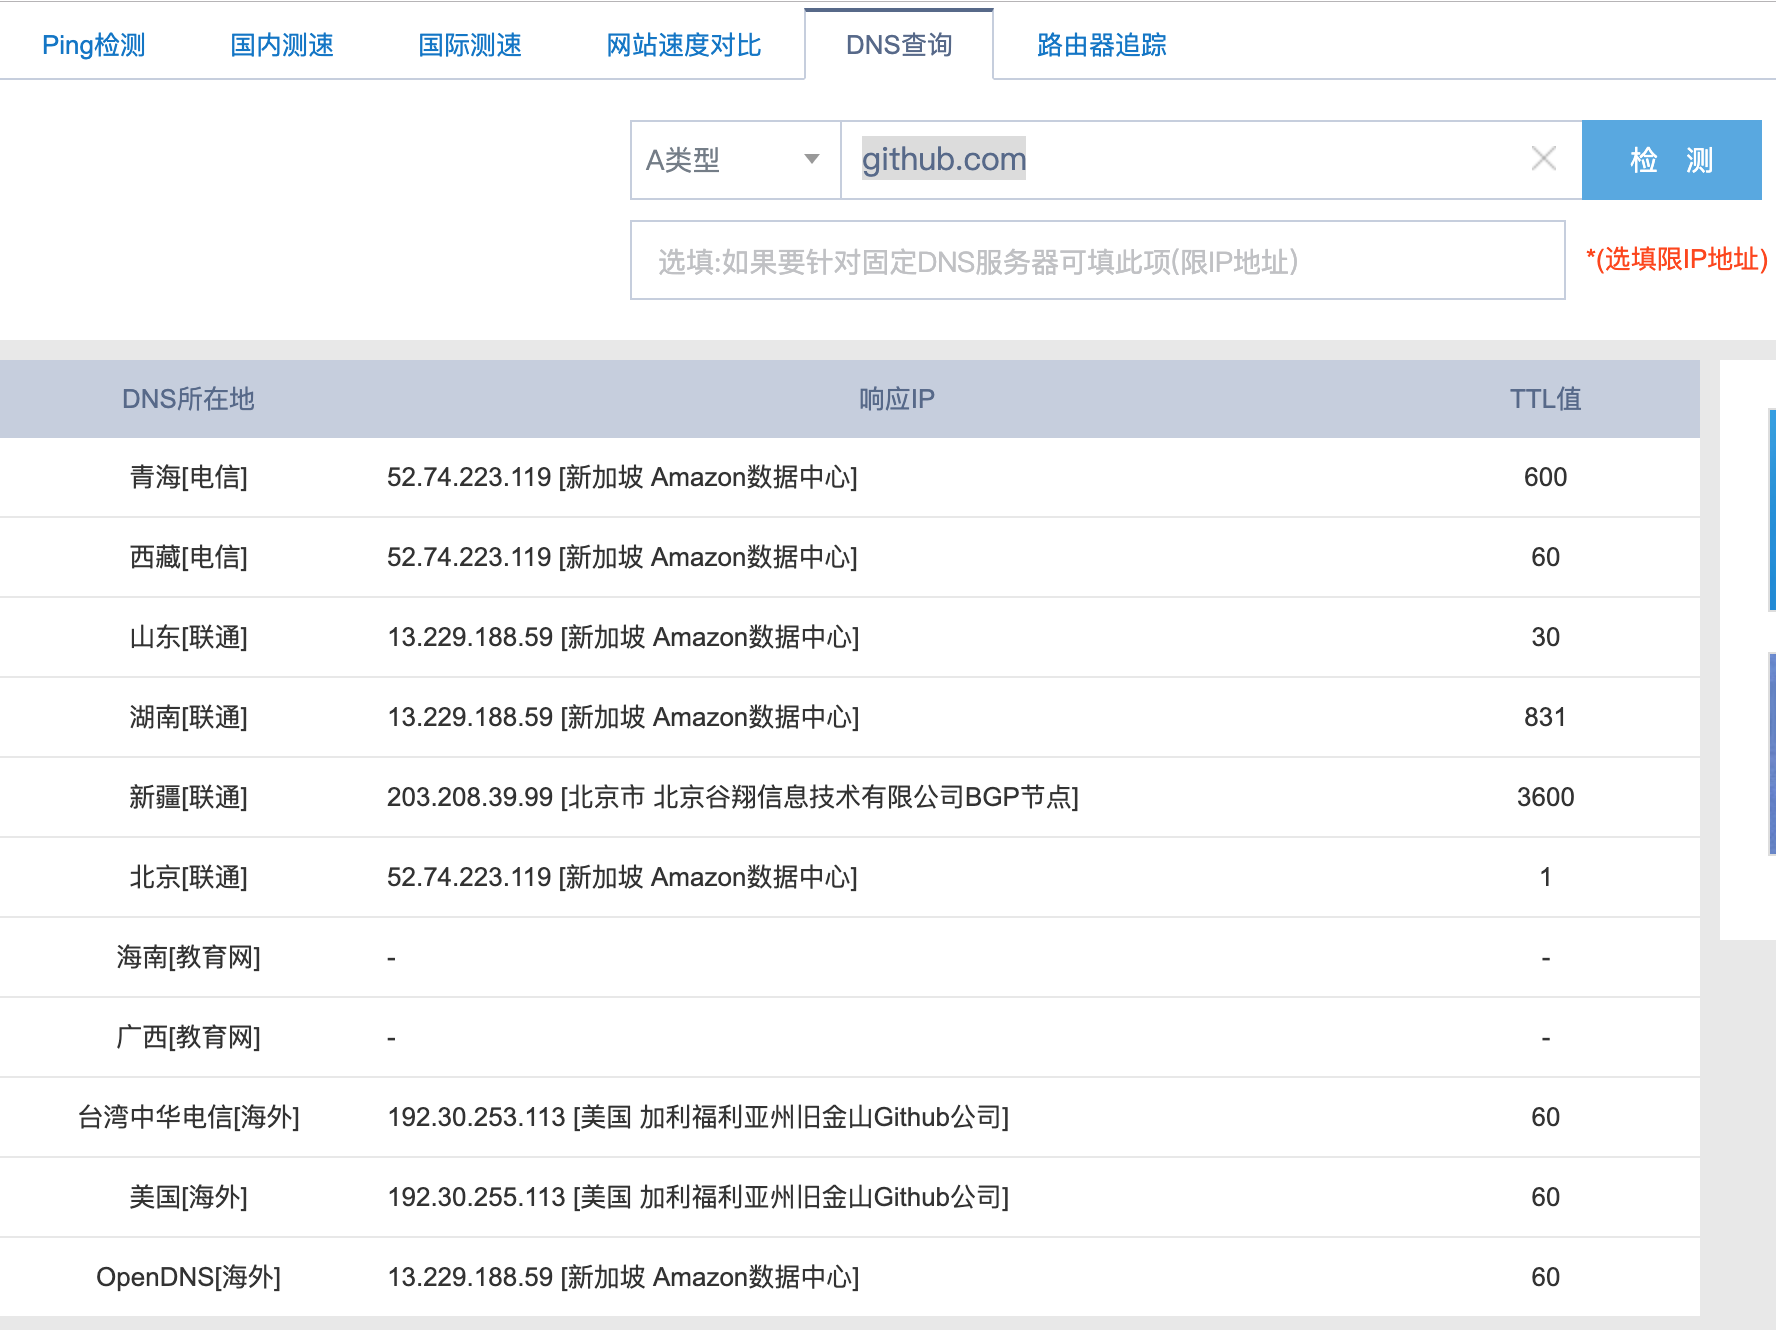
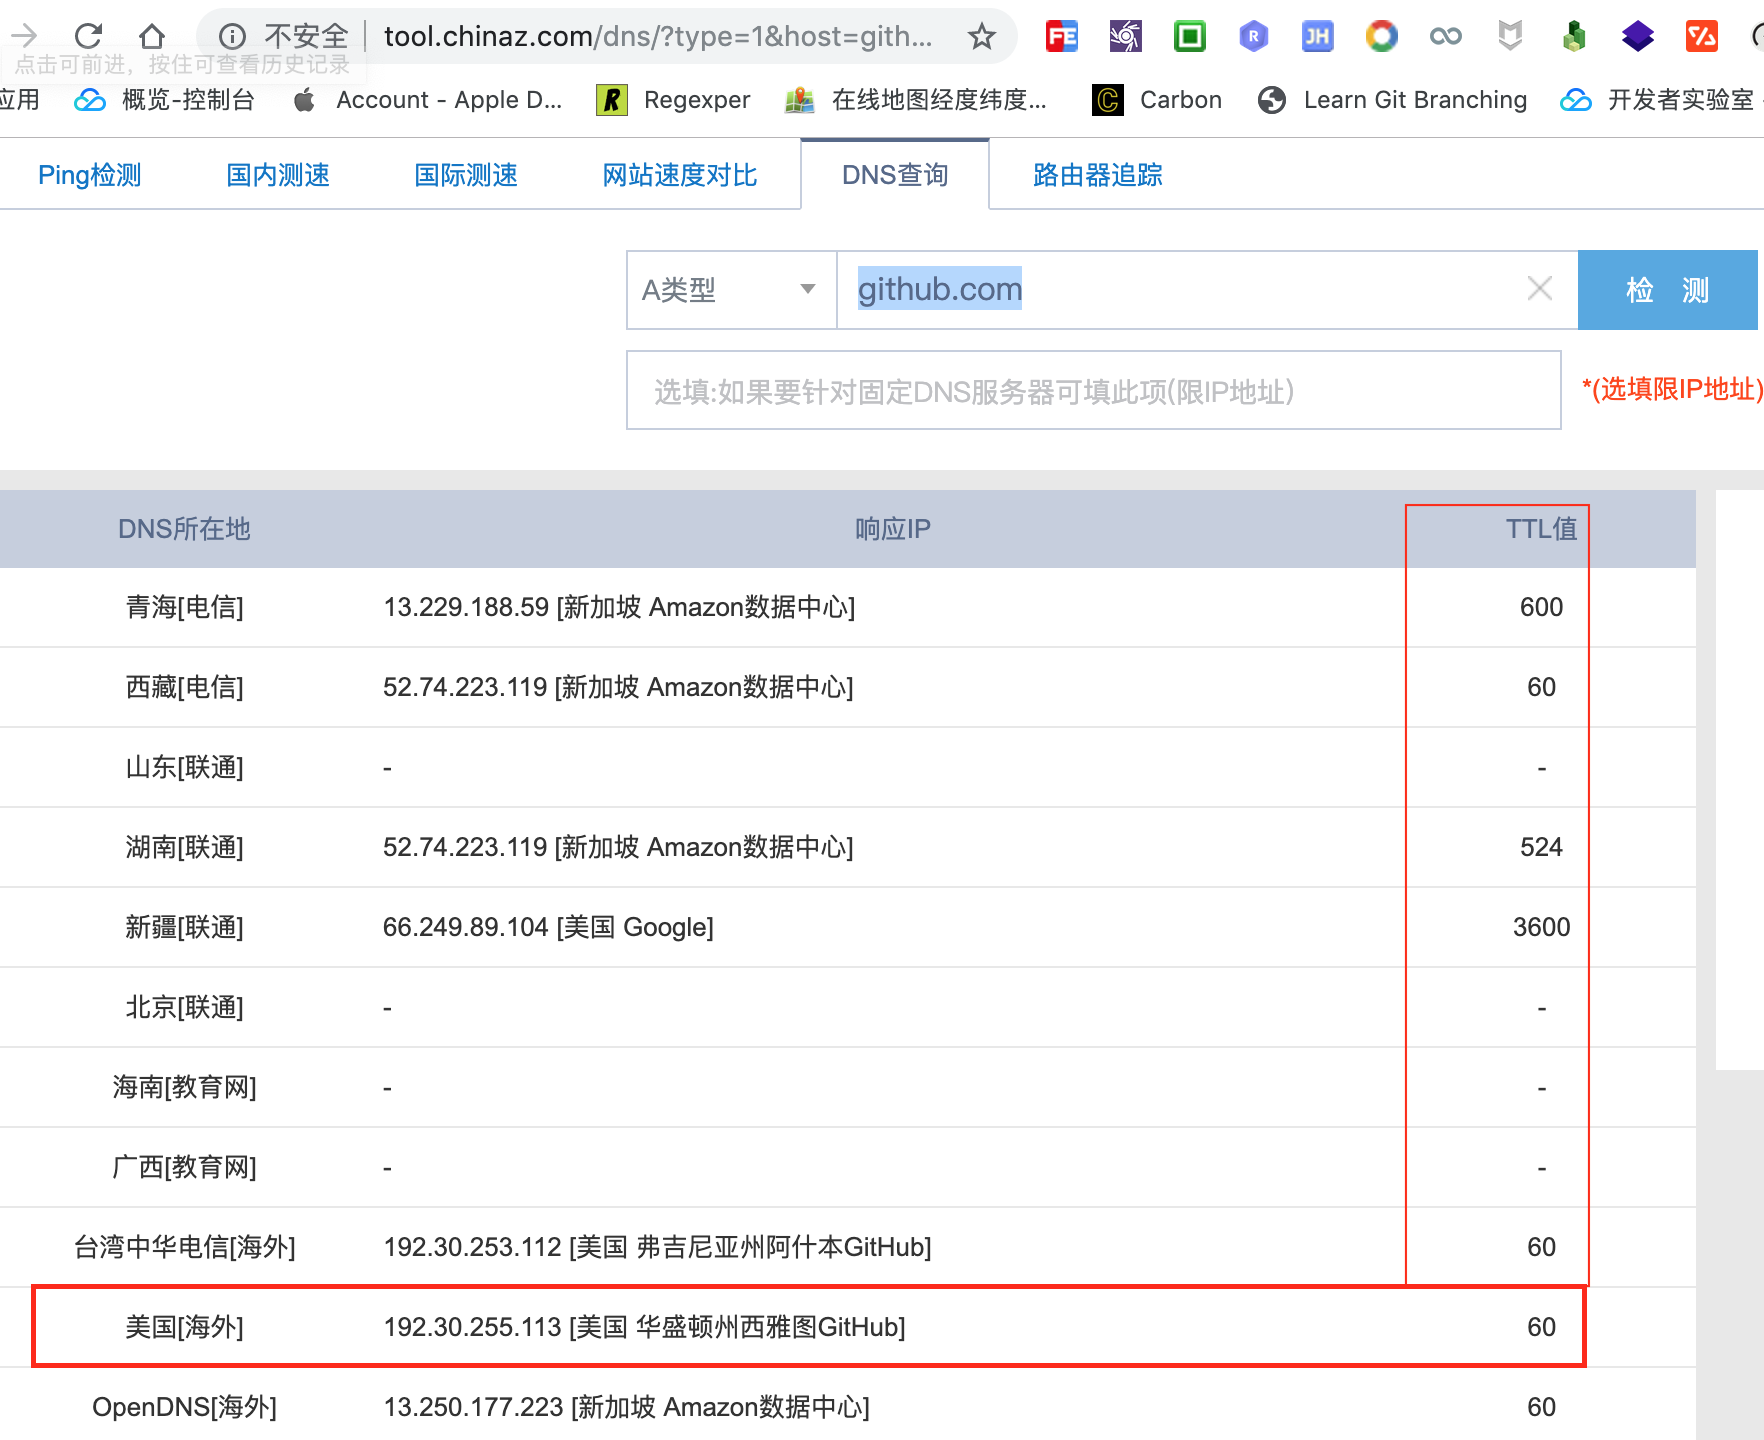
before install

diff --git a/github/speedup.md b/github/speedup.md
@@ -1,6 +1,12 @@
 # github 访问速度太慢
 
-国内访问 [https://github.com/](https://github.com/) 速度太慢,如何加速访问 `github.com` 网站就成了刚需.
+![github-speedup-github-preview.png](./images/github-speedup-github-preview.png)
+
+`github` 是全世界最流行的开源项目托管平台,其代表的开源文化从根本上改变了软件开发的方式.
+
+基本上所有的需求都能从 `github` 上或多或少找到现成的实现方案,再也不用重头开始造轮子而是自定义轮子!
+
+然而,有时候国内访问 [https://github.com/](https://github.com/) 速度太慢,如何加速访问 `github.com` 网站就成了刚需.
 
 由于 `github.com` 网站位于美国旧金山,所以初始访问 `github.com` 时网络寻址会比较耗费时间,这也是网站打开速度慢的其中一个原因.
 
@@ -28,15 +34,11 @@ round-trip min/avg/max/stddev = 345.485/366.021/405.924/28.220 ms
 
 > `ping github.com -c 3` 查看 `github.com` 网站的门牌号
 
-## 子域名有哪些
-
 正常来说,网站的主域名下会存在多个子域名,由这些域名组合在一起提供完整的服务.
 
 而 `github.com` 也不例外,其中 `github.com`是一级域名,也是主域名,其他的域名基本上都是二级余敏或者说次域名.
 
 所以我们不仅要告诉本机 `github.com` 的主域名,还要把相关的子域名也告诉本机,帮人帮到底,送福送到西!
-
-![github-speedup-ipaddress-domain.png](./images/github-speedup-ipaddress-domain.png)
 
 那到哪里去查询域名和 `ip` 的对应关系呢?
 
@@ -52,49 +54,87 @@ round-trip min/avg/max/stddev = 345.485/366.021/405.924/28.220 ms
 
 域名到 `ip` 地址的过程同样也需要找人询问,这个信息一般会存在 `dns` 服务商那里,就像我们的地址登记到相关政府机构一样.
 
-虽然相关机构的信息比较权威及时,但门槛有点高,不如问一下当地的消息通.
+虽然相关机构的信息比较权威及时,但门槛有点高,不如问一下当地的"消息通".
 
-互联网上的消息通更是数不胜数,这里推荐两个查询域名解析的网站.
-
-- [http://tool.chinaz.com/dns/](http://tool.chinaz.com/dns/)
-
-![github-speedup-chinaz-preview.png](./images/github-speedup-chinaz-preview.png)
+互联网上的"消息通"更是数不胜数,这里推荐两个查询域名解析的网站.
 
 - [https://www.ipaddress.com/](https://www.ipaddress.com/)
 
 ![github-speedup-ipaddress-preview.png](./images/github-speedup-ipaddress-preview.png)
 
+- [http://tool.chinaz.com/dns/](http://tool.chinaz.com/dns/)
+
+![github-speedup-chinaz-preview.png](./images/github-speedup-chinaz-preview.png)
+
+## 子域名有哪些
+
+下面以 `ipaddress.com` 网站为例,查询下 `github.com` 网站的相关信息.
+
+在输入框中输入 `github.com` 域名后开始解析该域名的相关信息,不仅找到了域名对应的 `ip` 地址还查询到相关网站的域名信息.
+
+![github-speedup-ipaddress-domain.png](./images/github-speedup-ipaddress-domain.png)
+
+> 亲自去体验一下: [域名查询](http://github.com.ipaddress.com/)
+
+根据查到的相关域名信息,再次查询出这些域名对应的 `ip` 地址,于是整理出以下内容.
+
 ```
-# github
+# github related website
 192.30.253.113 github.com
 151.101.185.194 github.global.ssl.fastly.net
-
-
-# Github
-192.30.253.113 github.com
-151.101.184.133 assets-cdn.github.com
-185.199.108.153 documentcloud.github.com
 192.30.253.118 gist.github.com
-185.199.108.153 help.github.com
-192.30.253.120 nodeload.github.com
-151.101.184.133 raw.github.com
-18.204.240.114 status.github.com
-192.30.253.166 training.github.com
-192.30.253.112 www.github.com
-
-
-151.101.184.133 avatars0.githubusercontent.com
-151.101.184.133 avatars1.githubusercontent.com
-
+192.30.253.120 codeload.github.com
+185.199.108.153 desktop.github.com  
+185.199.108.153 guides.github.com   
+185.199.108.153 blog.github.com 
+18.204.240.114 status.github.com   
+185.199.108.153 developer.github.com    
+185.199.108.153 services.github.com 
+192.30.253.175 enterprise.github.com   
+34.195.49.195 education.github.com    
+185.199.108.153 pages.github.com    
+34.196.237.103 classroom.github.com
 ```
 
+## 就近 cdn 加速
 
+大型网站服务器都不会是只有一台服务器,而是多台服务器组成的集群一起对外提供服务.
 
-1. 打开 [Dns检测|Dns查询 - 站长工具](http://tool.chinaz.com/dns/)
+全世界都在使用 `github` ,如果每一次访问网站时走的都是美国服务器,即使浏览器知道目的地,但是距离太多遥远还是会很慢.
 
-2. 在检测输入栏中输入 [github.com 官网](http://tool.chinaz.com/dns/?type=1&host=github.com&ip=)
+因此,如果能够就近访问 `github` 网站就能大幅提高访问速度了,幸运的是,网络上同样有现成的工具来帮助我们查看就近的网站地址.
 
-3. 把检测列表里的 `TTL` 值最小的 `IP` 输入到 `hosts` 里,并对应写上 `github` 官网域名.
+![github-speedup-chinaz-dns.png](./images/github-speedup-chinaz-dns.png)
+
+> 亲自去体验一下: [DNS查询](http://tool.chinaz.com/dns/?type=1&host=github.com&ip=)
+
+从上图中我们可以看出,同一个域名有很多不同的 `ip` 地址,从中选择 `TTL` 值最小的作为优化标准.
+
+于是,将上述清单继续优化成以下内容:
+
+```
+# github related website
+192.30.253.113 github.com
+151.101.185.194 github.global.ssl.fastly.net
+203.98.7.65 gist.github.com
+13.229.189.0 codeload.github.com
+185.199.109.153 desktop.github.com 
+185.199.108.153 guides.github.com  
+185.199.108.153 blog.github.com
+18.204.240.114 status.github.com
+185.199.108.153 developer.github.com
+185.199.108.153 services.github.com
+192.30.253.175 enterprise.github.com   
+34.195.49.195 education.github.com    
+185.199.108.153 pages.github.com  
+34.196.237.103 classroom.github.com
+```
+
+> 最好亲自测试一下就近站点以求获得最佳体验,不过推测应该差异不是很大,所以直接复制也无妨.
+
+## 告诉本机新地址
+
+现在我们已经弄清楚域名和 `ip` 的映射关系,接下来要做的事情就是告诉本机,不同的操作系统具体文件存放的地址可能有些不同,下面我们以 `Windows` 和 `Mac` 举例说明.
 
 ### `windows` 
 
